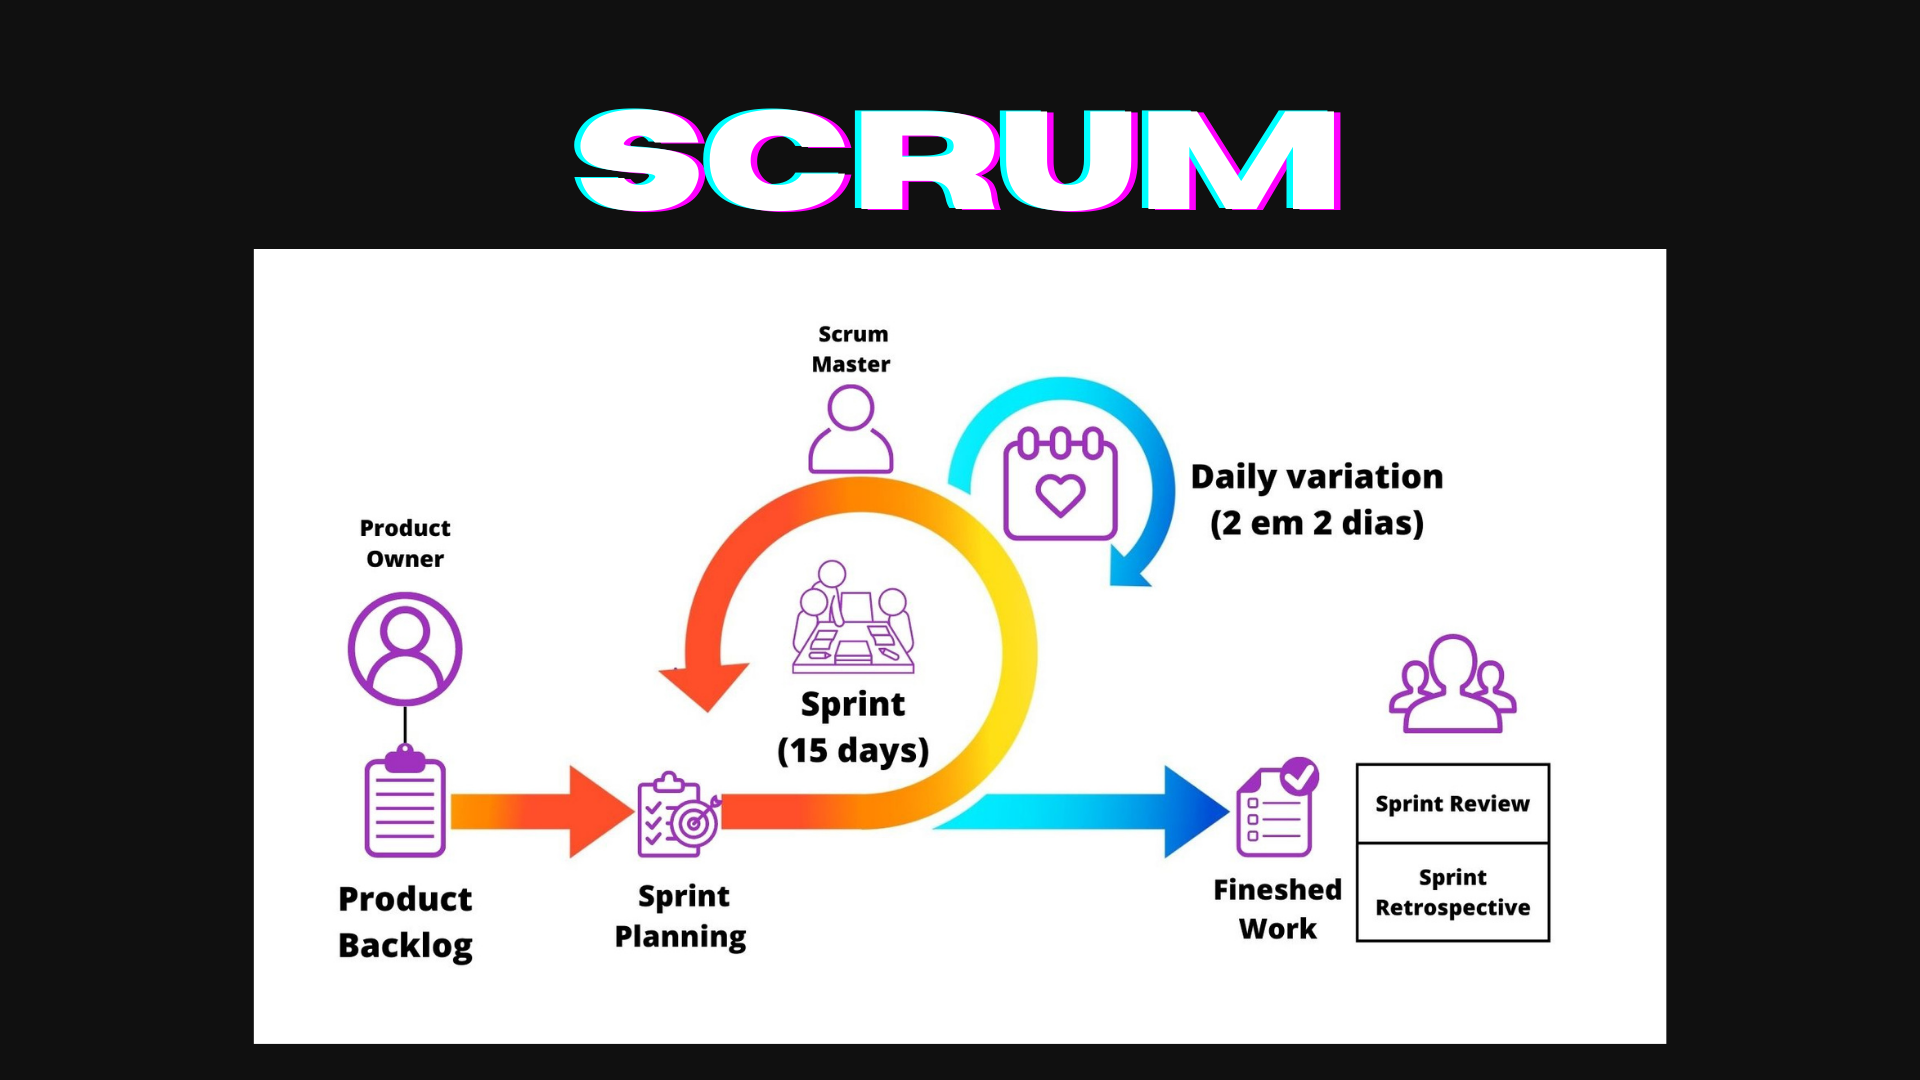
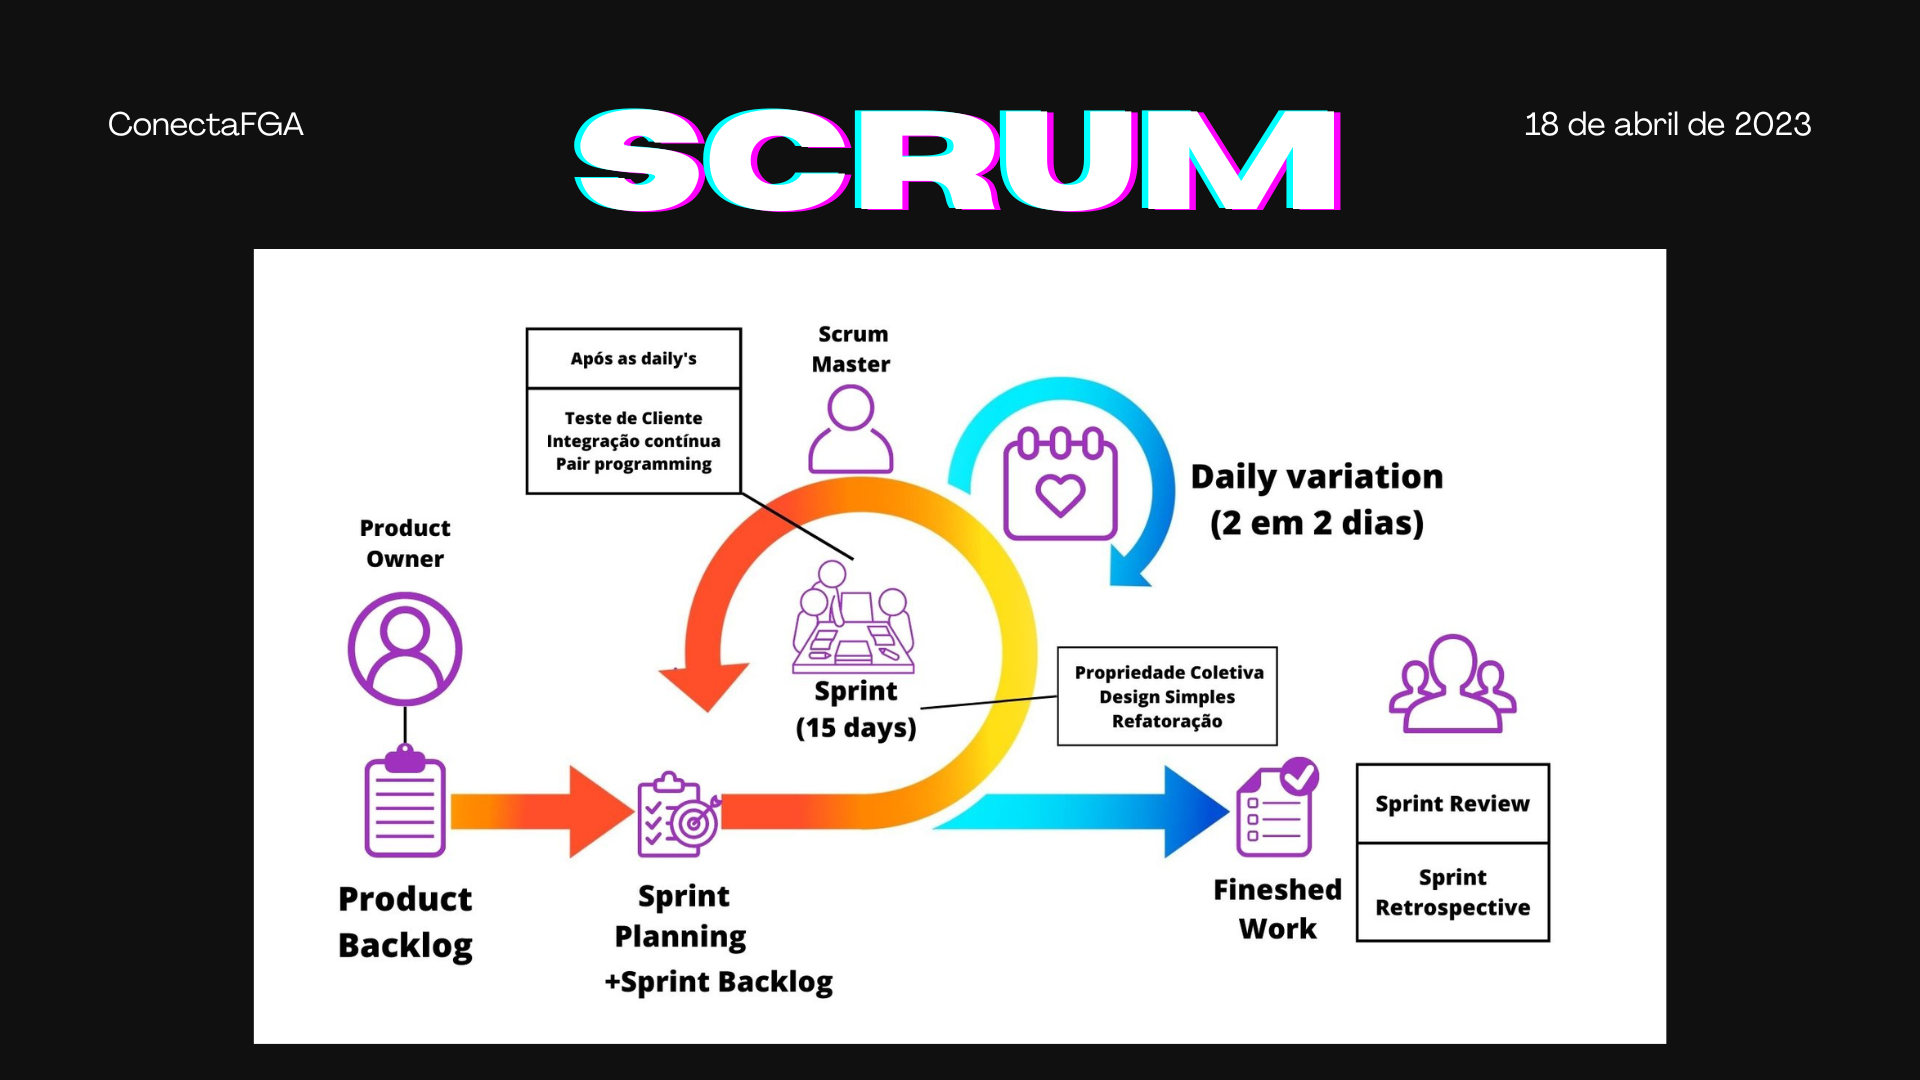
Atualização dia 19

diff --git a/docs/documentacao/processoDesenvolvimento.md b/docs/documentacao/processoDesenvolvimento.md
@@ -1,13 +1,20 @@
-# Historico de Revisão
+# Processo de Desenvolvimento
+## Historico de Revisão
 
 | Data     | Versão | Descrição                  | Autor(es)                                                                          |
 |----------|--------|----------------------------|---------------------------------------------------------------------------------------------|
-|18/04/2023|   0.1  | Definição das práticas do XP e Scrum       |[Pedro Lucas](https://github.com/lucasdray)|
+|18/04/2023|   0.1  | Definição das práticas do XP e Scrum       |[Arthur](https://github.com/Arthrok), [Eric](https://github.com/ericbky), [Pedro Lucas](https://github.com/lucasdray), [Yasmim](https://github.com/yaskisoba)| 
 
-Para o desenvolvimento a equipe utilizará uma metodologia que pega os valores (comunicação, simplicidade, feedback, coragem e respeito) e algumas práticas do desenvolvimento de software "XP" com o método de gerenciamento de projetos "Scrum", sendo toda a documentação feita de acordo com o Scrum e XP.
+----------------------------------------------------------------
+
+Para o desenvolvimento do produto, a equipe utilizará fundamentalmente terá algumas práticas como: comunicação, simplicidade, feedback, coragem e respeito. Na mesma linhagem, seguiremos de forma híbrida, algumas práticas de desenvolvimento de software envolvendo "XP" com o método de gerenciamento de projetos "Scrum", assim como seus valores, princípios, filosofias e práticas, com algumas básicas adaptações.
+
+# Práticas adotadas do Scrum
 
 
-#Práticas do XP que serão usadas
+...
+
+# Práticas do XP que serão usadas
 
 - [x] Jogo do planejamento
 - [x] Programação em pares

diff --git a/docs/documentacao/visaoGeralProduto.md b/docs/documentacao/visaoGeralProduto.md
@@ -1,14 +1,16 @@
-# Historico de Revisão
+# Visão Geral do Produto
+
+## Historico de Revisão
 
 | Data     | Versão | Descrição                  | Autor(es)                                                                          |
 |----------|--------|----------------------------|---------------------------------------------------------------------------------------------|
-|16/04/2023|   0.1  | Criação do gitpages, Feito Visão Geral do Produto e do Projeto        |[Arthur](https://github.com/Arthrok), [Eric](https://github.com/ericbky), [Pedro Lucas](https://github.com/lucasdray), [Yasmim](https://github.com/yaskisoba)|
-|18/04/2023|   0.2  | Feito entrega da Unidade 1, Topicos 1-4 finalizados| [Arthur](https://github.com/Arthrok), [Eric](https://github.com/ericbky), [Pedro Lucas](https://github.com/lucasdray)|
+|16/04/2023|   0.1  | Criação do gitpages, finalizado o visão geral do produto e do projeto        |[Arthur](https://github.com/Arthrok), [Eric](https://github.com/ericbky), [Pedro Lucas](https://github.com/lucasdray), [Yasmim](https://github.com/yaskisoba)|
+|18/04/2023|   0.2  | Finalizado a entrega da Unidade 1, tópicos de 1 a 4| [Arthur](https://github.com/Arthrok), [Eric](https://github.com/ericbky), [Pedro Lucas](https://github.com/lucasdray), [Yasmim](https://github.com/yaskisoba)|
 
 
+-----------------------------------------------------------------
 
-
-# 1 - Problema
+## 1 - Problema
 A falta de um ambiente especifico e de facil localização para que alunos da UnB-FGA, tanto calouros como veteranos, possam pedir por ajuda em matérias e possam ajudar outros alunos com uma comunicação direta e rapida
 
 ## 2 - Declaração de Posição do Produto

diff --git a/docs/documentacao/licoesAprendidas.md b/docs/documentacao/licoesAprendidas.md
@@ -1,1 +1,18 @@
-licoes
+# Lições aprendidas
+
+## Historico de Revisão
+
+| Data     | Versão | Descrição                  | Autor(es)                                                                          |
+|----------|--------|----------------------------|---------------------------------------------------------------------------------------------|
+|19/04/2023|   0.1  | Inserção das lições aprendidas na Unidade 1  |[Arthur](https://github.com/Arthrok), [Eric](https://github.com/ericbky), [Pedro Lucas](https://github.com/lucasdray), [Yasmim](https://github.com/yaskisoba)|
+
+----------------------------------------------------------------
+## Unidade 1
+
+Na unidade 1, aprendemos lições de alto valor:
+
+- Aprendemos a identificar qual a melhor metodologia utilizamos em um projeto por exemplo e sua importância adequada para diferentes situações de equipe e projeto.
+- Aprimoramos a identificação e definição dos problemas, das causas, e do que iremos entregar como um produto, sendo essencial para aflorar as ideias do escopo, filosofia adotada pela equipe, entre outros.
+- Tivemos um pouco de dificuldade intra-equipe e estamos trabalhando como um todo para tornar isso não mais um problema, aumentar nossa produtividade e eficiências.
+- Como equipe em desenvolvimento interpessoal, compreendemos melhor alguns fundamentos da engenharia de software e suas importâncias.
+- Compreendemos que um produto de software é muito mais complexo do que aparenta, assim nos deu uma visão mais realista da estruturação, desenvolvimento, análise, testes, entre outros.

diff --git a/docs/documentacao/visaoGeralProjeto.md b/docs/documentacao/visaoGeralProjeto.md
@@ -1,7 +1,11 @@
+# Visão Geral do Projeto
+
+## Historico de Revisão
+
 | Data     | Versão | Descrição                  | Autor(es)                                                                          |
 |----------|--------|----------------------------|---------------------------------------------------------------------------------------------|
-|16/04/2023|   0.1  | Criação do gitpages, Feito Visão Geral do Produto e do Projeto        |[Arthur](https://github.com/Arthrok), [Eric](https://github.com/ericbky), [Pedro Lucas](https://github.com/lucasdray), [Yasmim](https://github.com/yaskisoba)|
-|18/04/2023|   0.2  | Topicos 1-4 finalizados| [Arthur](https://github.com/Arthrok), [Eric](https://github.com/ericbky), [Pedro Lucas](https://github.com/lucasdray)|
+|16/04/2023|   0.1  | Criação do gitpages, adição do visão geral do produto e do projeto        |[Arthur](https://github.com/Arthrok), [Eric](https://github.com/ericbky), [Pedro Lucas](https://github.com/lucasdray), [Yasmim](https://github.com/yaskisoba)|
+|18/04/2023|   0.2  | Topicos 1-4 finalizados temporáriamente| [Arthur](https://github.com/Arthrok), [Eric](https://github.com/ericbky), [Pedro Lucas](https://github.com/lucasdray)|
 
 ## 1 - Organização do Projeto
 

diff --git a/docs/entregas/unidade 1/unidade 1.md b/docs/entregas/unidade 1/unidade 1.md
@@ -1,4 +1,18 @@
-# Metodologia Scrum
+# Diagrama de Ishikawa
+
+![Diagrama de Ishikawa](https://raw.githubusercontent.com/mdsreq-fga-unb/2023.1-TwoDo/main/docs/imgs/Diagrama.png?raw=true)
+
+------------------------------------------------------------------
+
+# Apresentação da Equipe / Problema
+
+![Slide 1 - Problema](https://raw.githubusercontent.com/mdsreq-fga-unb/2023.1-TwoDo/main/docs/imgs/Problema1.png)
+![Slide 2 - Problema](https://github.com/mdsreq-fga-unb/2023.1-TwoDo/blob/main/docs/imgs/Problema2.png?raw=true)
+![Slide 3 - Problema](https://github.com/mdsreq-fga-unb/2023.1-TwoDo/blob/main/docs/imgs/Problema3.png?raw=true)
+
+------------------------------------------------------------------
+
+# Metodologia Adotada
 
 ![Slide 1 - Scrum](https://raw.githubusercontent.com/mdsreq-fga-unb/2023.1-TwoDo/main/docs/imgs/1.png)
 ![Slide 2 - Scrum](https://github.com/mdsreq-fga-unb/2023.1-TwoDo/blob/main/docs/imgs/2.png?raw=true)

diff --git a/docs/documentacao/referenciasBibliograficas.md b/docs/documentacao/referenciasBibliograficas.md
@@ -1,1 +1,1 @@
-referencias
+# Referencias
